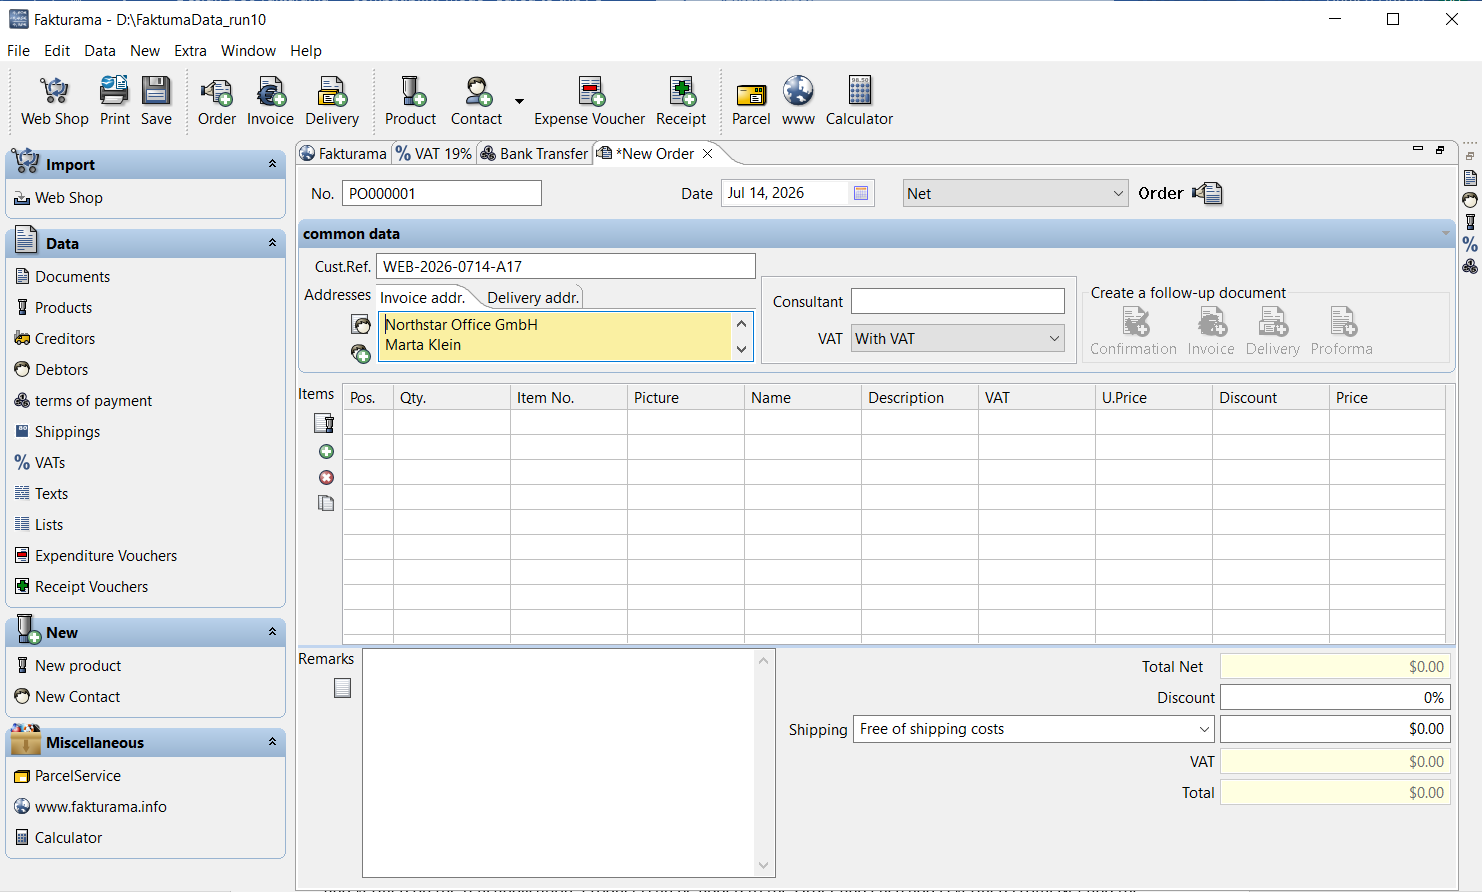
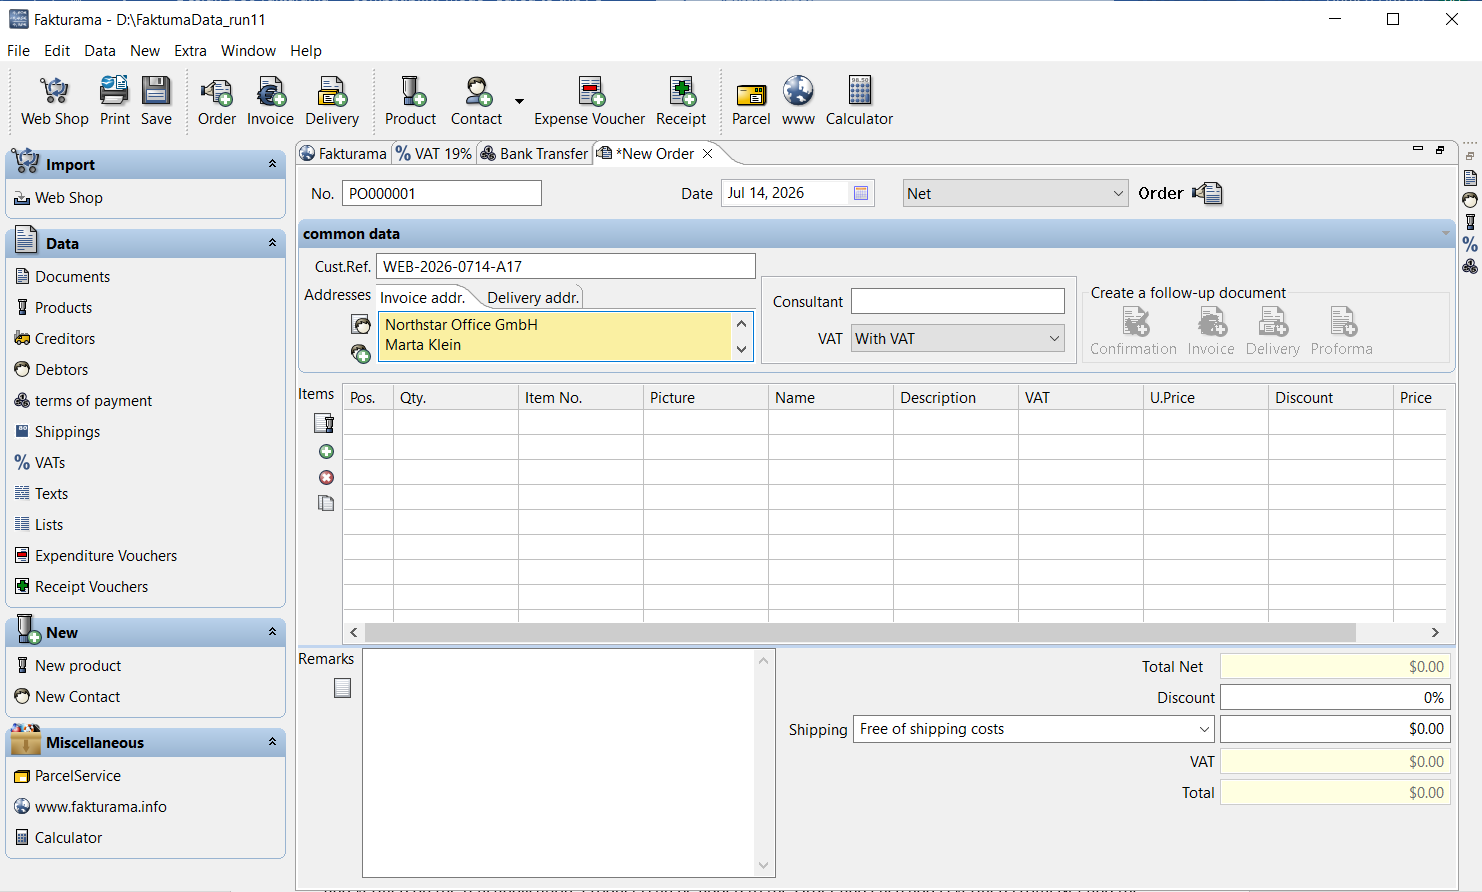
Vision retry with backoff for rate limits; measure Items columns on the bottom visible row

diff --git a/fakturama_bot/vision.py b/fakturama_bot/vision.py
@@ -29,7 +29,17 @@ def read_table(rect, columns, timeout=90):
               "Copy the text exactly as shown; use an empty string for an empty cell; "
               "a text ending in '...' is cut off by the column width, keep the dots. "
               "If there are no data rows, return an empty list.")
-    rows = ask_gemini(buf.getvalue(), "image/png", prompt, SCHEMA, timeout=timeout)["rows"]
+    rows = None
+    for attempt in range(4):          # the free tier answers 429 (rate limit) in bursts: wait and ask again before giving up
+        try:
+            rows = ask_gemini(buf.getvalue(), "image/png", prompt, SCHEMA, timeout=timeout)["rows"]
+            break
+        except Exception as exc:
+            if attempt == 3:
+                raise
+            log.warning("vision read failed (%s); waiting 25 s before trying again", exc)
+            import time
+            time.sleep(25)
     table = [dict(zip(columns, row)) for row in rows if any(c.strip() for c in row)]
     log.info("vision read %d table row(s)", len(table))
     return table

diff --git a/fakturama_bot/flow.py b/fakturama_bot/flow.py
@@ -837,7 +837,8 @@ def _column_center(win, name):
     from PIL import ImageGrab
     rect = _items_grid_rect(win)
     img = ImageGrab.grab(bbox=(rect.left, rect.top, rect.right, rect.bottom)).convert("L")
-    y = ROW0_Y + ROW_H * 6 + 12                               # an empty row (an order has two or three lines)
+    rows_visible = max(3, (img.height - 25 - 18) // ROW_H)    # header 25 px, scroll bar about 18 px; the grid height changes with the layout
+    y = ROW0_Y + ROW_H * (rows_visible - 1)                   # the bottom visible row: empty unless the order has that many lines
     xs = [x for x in range(img.width) if img.getpixel((x, y)) < 225]
     lines = []
     for x in xs:
